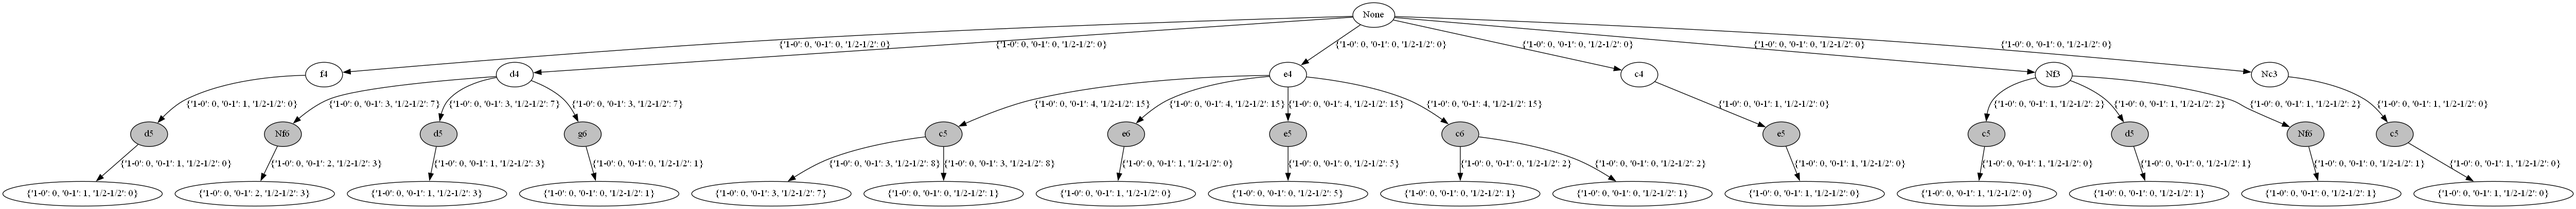
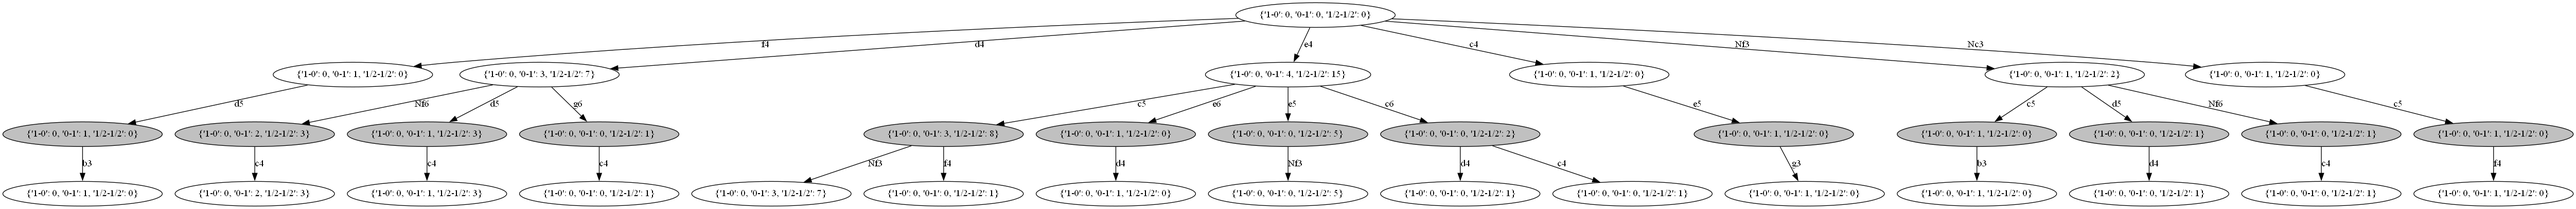
working v2

diff --git a/prototype/Tree.py b/prototype/Tree.py
@@ -95,8 +95,8 @@ class OpeningTree:
     def print_node(self, node, depth, current_depth, dot_file):
         if current_depth < depth:
             for child in node.get_children():
-                dot_file.write('{} [label="{}" fillcolor="{}", style="filled"] \n'.format(str(id(node)), node.get_move(), node.get_color()))
-                dot_file.write('{} -> {} [label="{}"]\n'.format(str(id(node)), str(id(child)), node.get_result()))
+                dot_file.write('{} [label="{}" fillcolor="{}", style="filled"] \n'.format(str(id(node)), node.get_result(), node.get_color()))
+                dot_file.write('{} -> {} [label="{}"]\n'.format(str(id(node)), str(id(child)), child.get_move()))
 
                 self.print_node(child, depth, current_depth + 1, dot_file)
         else: # leaf node
